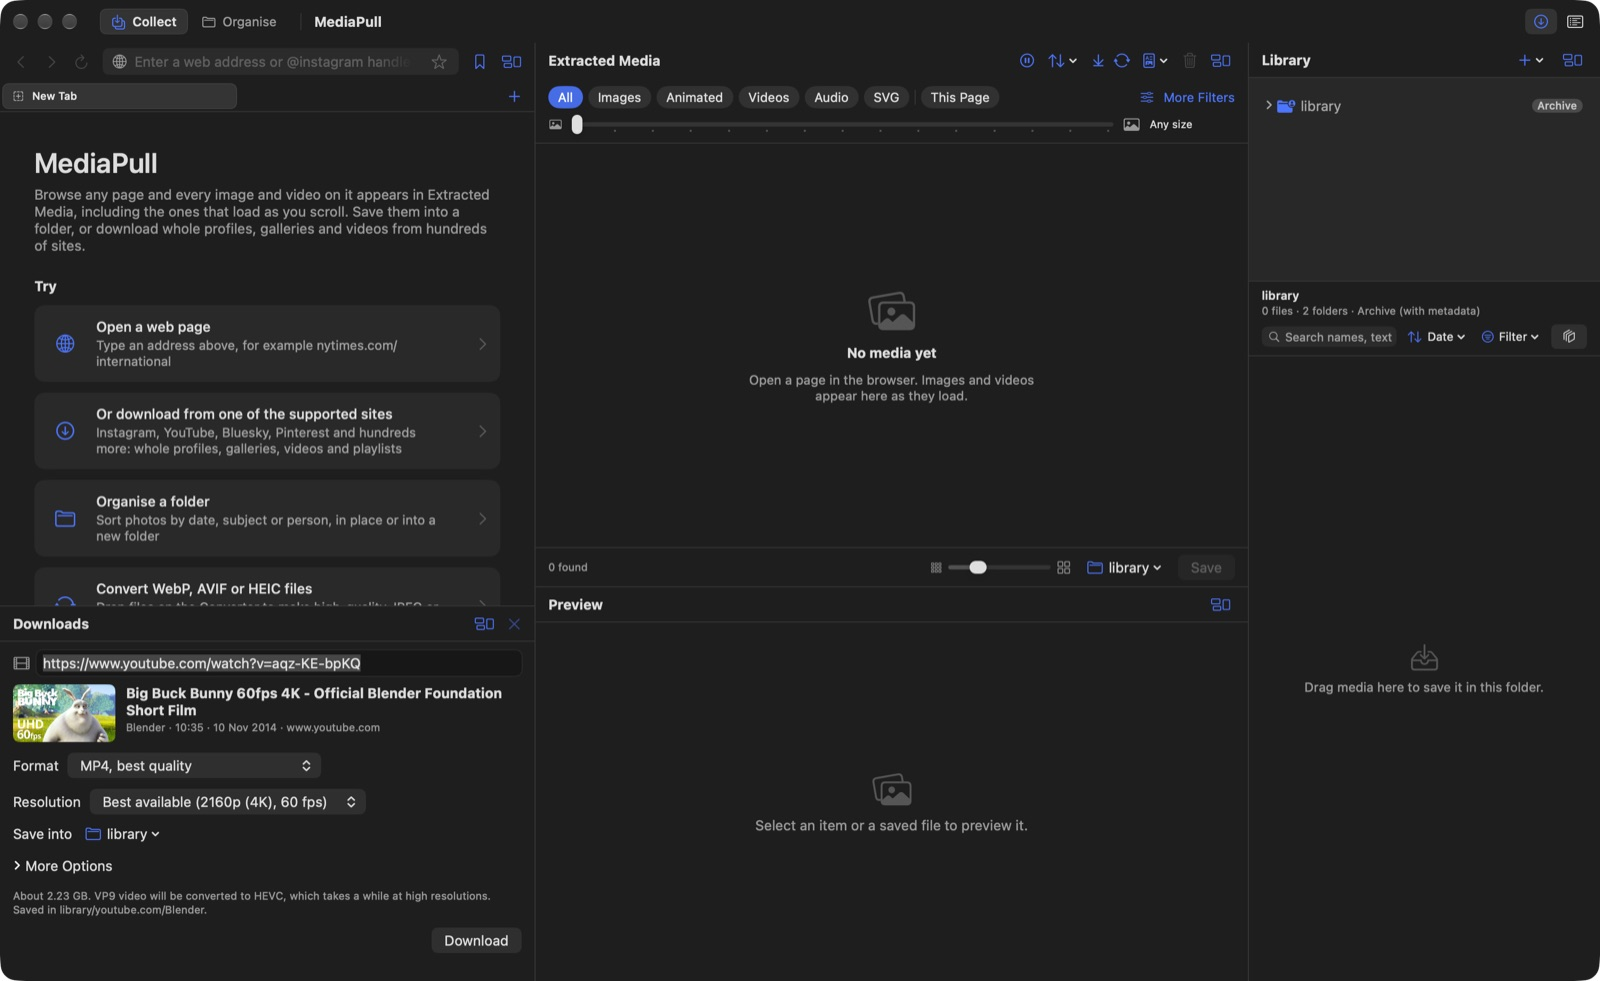
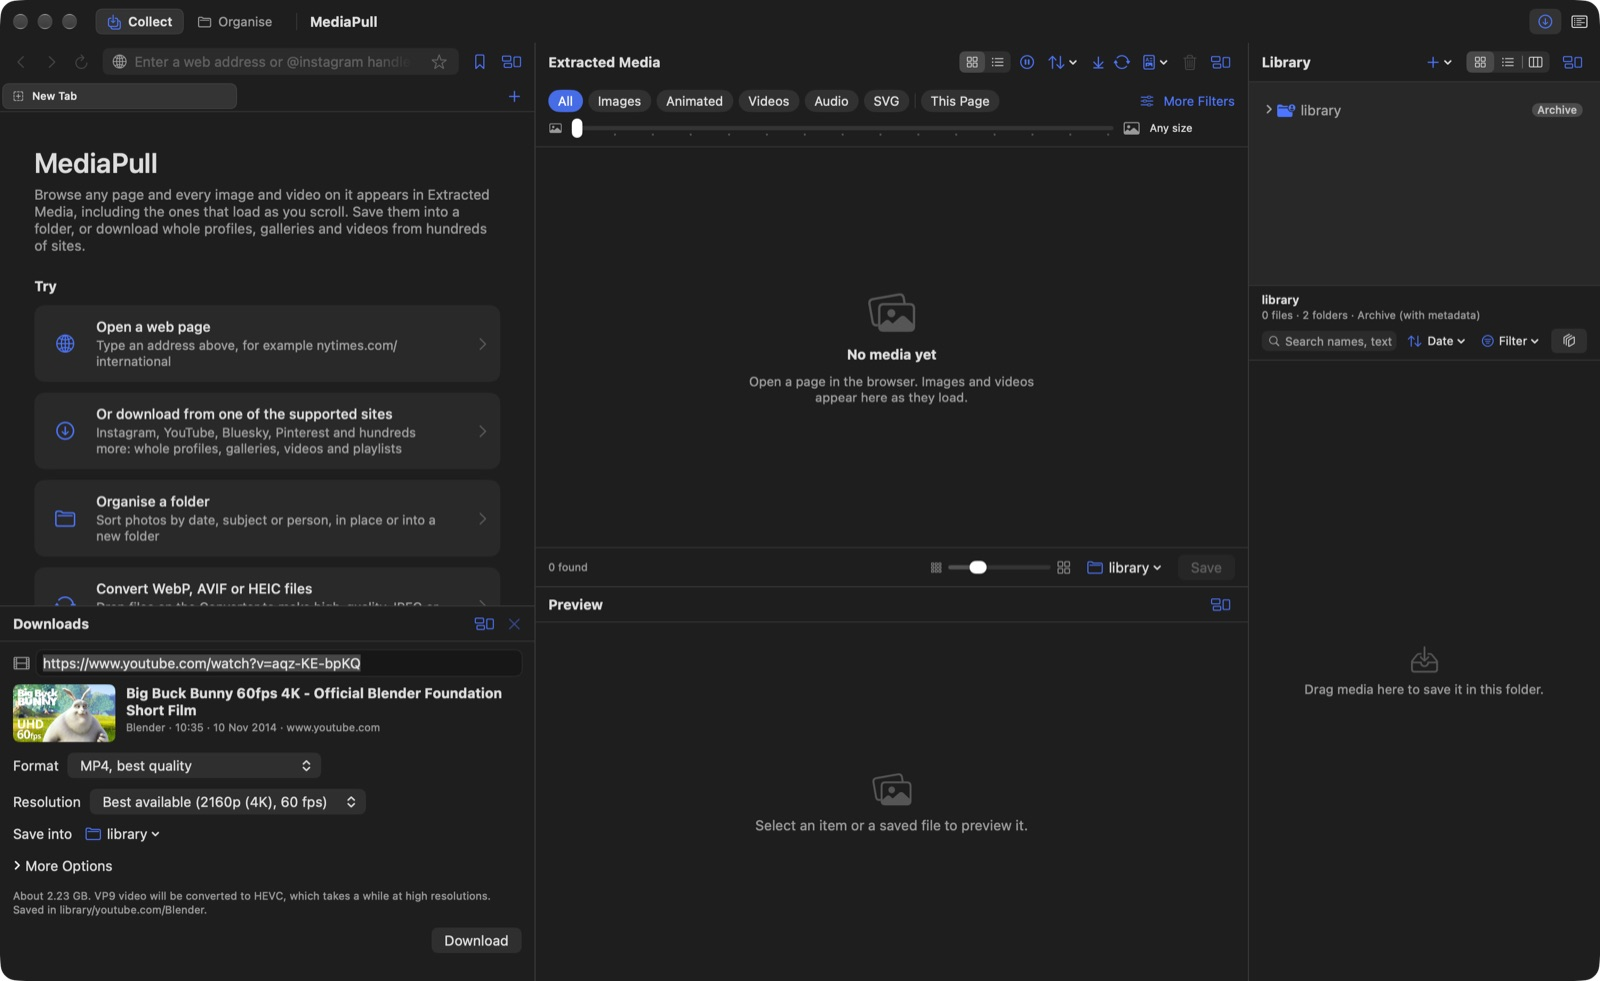
Fit Column view to narrow panes; refresh README screenshots
Columns now share the pane's width (up to three, at least 160 points each)
instead of scrolling the file column partly out of view, the preview column
shrinks with its column, and the Library preview loads files the pane has
not read yet by path. The collect self-test waits for the Library listing
before its screenshot. README screenshots are refreshed and gain List and
Column view images.

diff --git a/MediaPull/Platform/MediaColumnsView.swift b/MediaPull/Platform/MediaColumnsView.swift
@@ -43,9 +43,10 @@ struct MediaColumns: NSViewRepresentable {
         browser.isTitled = false
         browser.allowsMultipleSelection = true
         browser.allowsEmptySelection = true
-        browser.columnResizingType = .userColumnResizing
-        browser.minColumnWidth = 150
-        browser.setDefaultColumnWidth(210)
+        // Columns share the pane's width, so a narrow pane shows whole columns instead of scrolling one half out of view.
+        browser.columnResizingType = .autoColumnResizing
+        browser.minColumnWidth = 160
+        browser.maxVisibleColumns = 3
         browser.rowHeight = 22
         browser.autohidesScroller = true
         browser.target = coordinator
@@ -457,7 +458,7 @@ struct MediaColumnPreview: View {
             Spacer(minLength: 0)
         }
         .padding(14)
-        .frame(minWidth: 200, maxWidth: .infinity, maxHeight: .infinity, alignment: .top)
+        .frame(maxWidth: .infinity, maxHeight: .infinity, alignment: .top)
         .task(id: id) { await load() }
     }
 

diff --git a/MediaPull/App/SelfTest.swift b/MediaPull/App/SelfTest.swift
@@ -209,7 +209,9 @@ final class SelfTestRunner {
         try? await Task.sleep(for: .seconds(1))
         note("save finished: \(job?.summary ?? "no job") – \(job?.state.label ?? "")")
         model.library.selectedFolder = library.appendingPathComponent(FileNaming.safeTopFolder(url.host ?? "web"))
-        try? await Task.sleep(for: .seconds(2))
+        // The listing waits for analysis of the files just saved; the screenshot shows the folder once it is read.
+        await waitUntil(timeout: 240) { !self.model.library.files.isEmpty }
+        try? await Task.sleep(for: .seconds(10))
         snapshot(to: out.appendingPathComponent("window-saved.png"))
 
         if CommandLine.arguments.contains("--selftest-edit") { await exerciseEditor(library: library, out: out) }

diff --git a/MediaPull/Features/Library/LibraryModel.swift b/MediaPull/Features/Library/LibraryModel.swift
@@ -570,7 +570,11 @@ final class LibraryModel: MediaGridOwner {
     }
 
     func gridThumbnail(_ id: String, maxPixel: Int) async -> CGImage? {
-        guard let file = file(id) else { return nil }
+        // The column view shows files before the pane has read their folder; ids are paths, so those load directly.
+        guard let file = file(id) else {
+            if listFolders.isFolder(id) { return nil }
+            return await app.thumbnails.localThumbnail(for: URL(fileURLWithPath: id), maxPixel: maxPixel)?.image
+        }
         let measured = entryIndex[id].map { entries[$0] }?.facts?.pixelWidth != nil
         if details[id] == nil, !measured, file.format?.kind == .image || file.format?.kind == .animatedImage {
             let url = file.url

diff --git a/docs/SPEC.md b/docs/SPEC.md
@@ -946,7 +946,7 @@ Tokens: `{yyyy}`, `{MM}`, `{dd}`, `{HH}`, `{mm}`, `{ss}`, `{date:<format>}`, `{s
 
 **R-1709** List view: one row per item with a small thumbnail and the name, then Date, Size, Dimensions, Kind and Duration (Extracted Media: Dimensions, Size, Kind, Duration, Source and Found). Clicking a column header sorts by it, through the pane's own sort (section 37, R-1006), and clicking it again reverses the order; columns without a matching sort do not sort. In a folder pane, the folder's subfolders come first as rows with a disclosure triangle that shows their contents in place; with search text or Include Subfolders on, the list is flat. Sorts that make groups (Events, Group Similar) show each group as a heading row.
 
-**R-1710** Column view (folder panes): a column browser starting at the library folders (Organise: the pane's folder) replaces the folder tree and the search and filter row. Each column lists a folder's subfolders and then its media files by name; the last column previews the selected file with its name, kind, size, dimensions, length and dates. The deepest selected folder is the pane's folder (the Collect save folder for the Library, D-70).
+**R-1710** Column view (folder panes): a column browser starting at the library folders (Organise: the pane's folder) replaces the folder tree and the search and filter row. Each column lists a folder's subfolders and then its media files by name; the last column previews the selected file with its name, kind, size, dimensions, length and dates. Columns share the pane's width (up to three, each at least 160 points wide), so every visible column is shown whole. The deepest selected folder is the pane's folder (the Collect save folder for the Library, D-70).
 
 **R-1711** Thumbnail size (R-1001a) applies to Icon view; ⌥⌘+ and ⌥⌘- are disabled in the other views.
 

diff --git a/README.md b/README.md
@@ -19,6 +19,8 @@
 | Organise | Downloads |
 |---|---|
 | ![Organise: sort a folder by subject](docs/images/organise.jpg) | ![Downloads: choose a video's format and resolution](docs/images/downloads.jpg) |
+| **List view** | **Column view** |
+| ![List view: sortable columns and folders that open in place](docs/images/list-view.jpg) | ![Column view: folders in columns with a preview of the chosen file](docs/images/column-view.jpg) |
 
 ## Install
 
